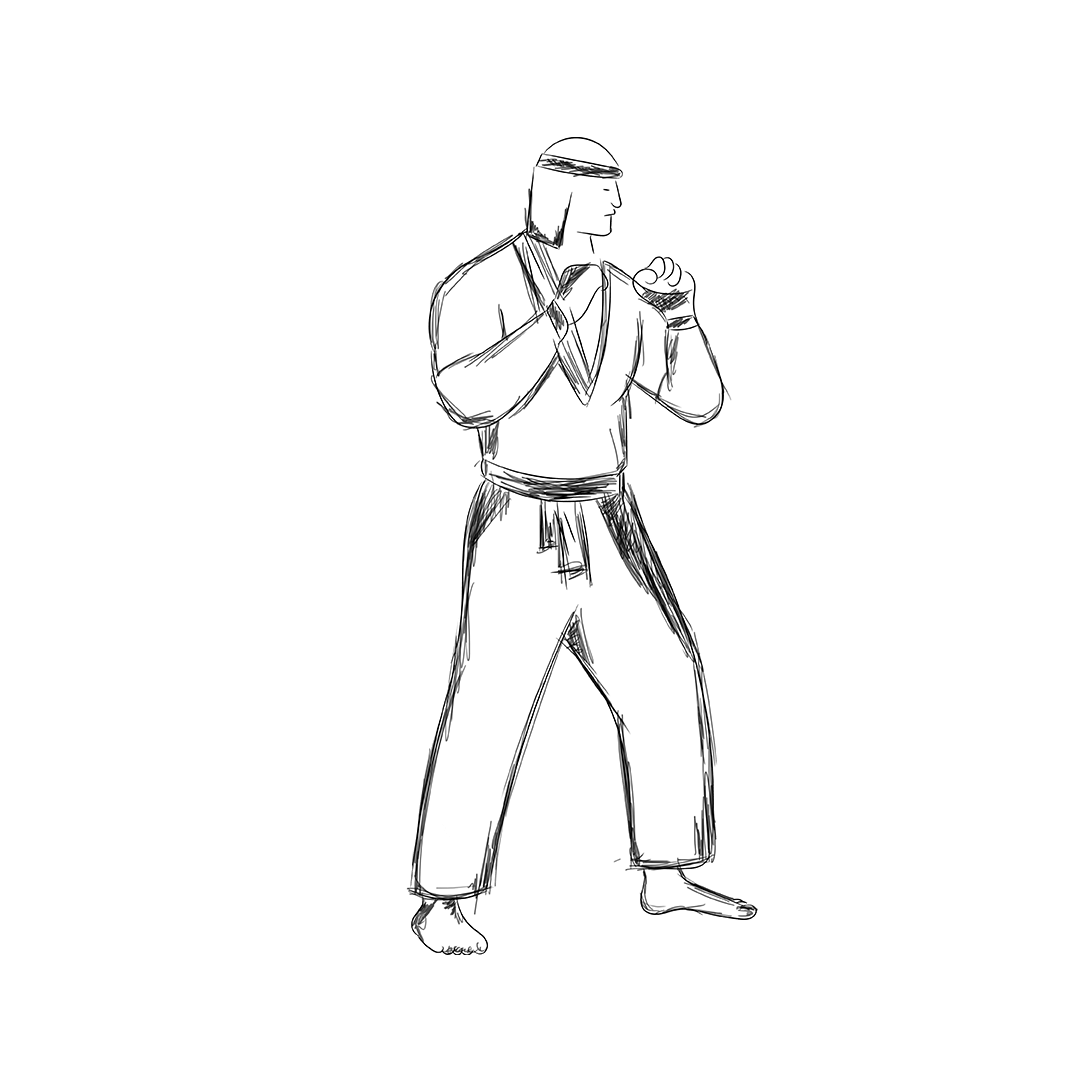
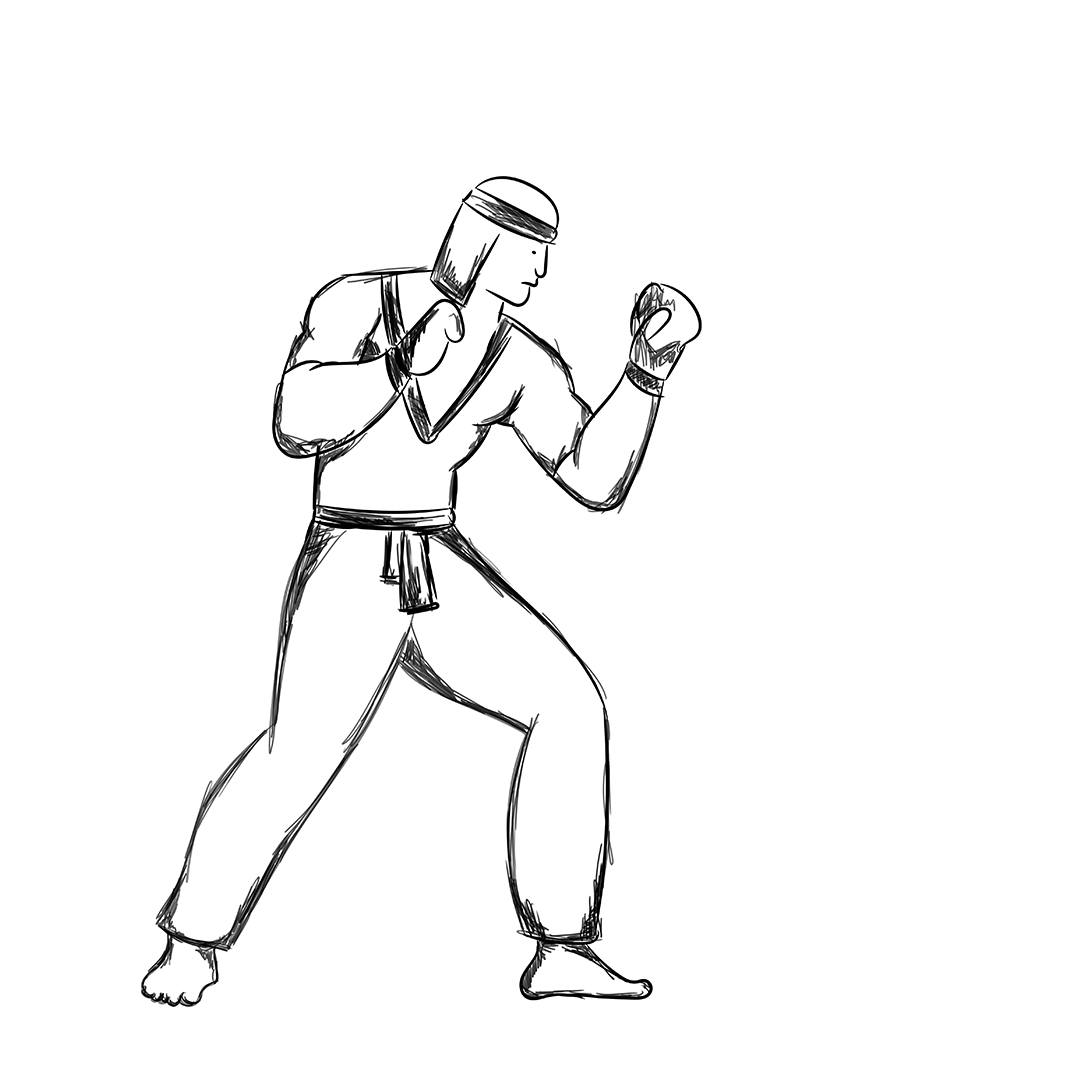
Add files via upload

diff --git a/mart.js b/mart.js
@@ -1,0 +1,93 @@
+var c = document.getElementById("myCanvas");
+var ctx = c.getContext("2d");
+let loadImage= (src,callback)=>{
+    let img=document.createElement("img");
+    img.onload=()=> callback(img);
+    img.src=src;
+};
+
+let imagePath=(frameNumber,animation)=>{
+    return "/images/"+animation+"/"+ frameNumber +".png";
+};
+let frames={
+    idle:[1,2,3,4,5,6,7,8],
+    kick:[1,2,3,4,5,6,7],
+    punch:[1,2,3,4,5,6,7],
+    forward:[1,2,3,4,5,6],
+    backward:[1,2,3,4,5,6],
+    block:[1,2,3,4,5,6,7,8,9],
+};
+let loadImages=(callback)=>{
+    let images={idle:[],kick:[],punch:[],forward:[],backward:[],block:[]};
+    let loadCount=0;
+    ["idle","kick","punch","forward","backward","block"].forEach((animation)=>{
+        let aniframes=frames[animation];
+        loadCount=loadCount+aniframes.length;
+        aniframes.forEach((frameNumber)=>{
+            let path=imagePath(frameNumber,animation);
+        loadImage(path,(image)=>{
+            images[animation][frameNumber-1]=image;
+            loadCount--;
+            if(loadCount===0)
+            {
+                callback(images);
+            }
+        });
+        });
+    });
+};
+let animate=(ctx,images,animation,callback)=>{
+    images[animation].forEach((image,index)=>{
+        setTimeout(()=>{
+            ctx.clearRect(0,0,500,500);
+            ctx.drawImage(image,0,0,500,500);
+        },index*100);
+    });
+    setTimeout(callback,images[animation].length*100);
+};
+loadImages((images)=>{
+    let selAn=[];
+    let aux=()=>{
+        let sa;
+        if(selAn.length===0)
+        {
+            sa="idle";
+        }
+        else{
+            sa=selAn.shift();
+        }
+        animate(ctx,images,sa,aux);
+    };
+    aux();
+    document.getElementById("kick").onclick=()=>{
+        selAn.push("kick");
+    };
+    document.getElementById("punch").onclick=()=>{
+        selAn.push("punch");
+    };
+    document.getElementById("forward").onclick=()=>{
+        selAn.push("forward");
+    };
+    document.getElementById("block").onclick=()=>{
+        selAn.push("backward");
+    };
+    document.getElementById("kick").onclick=()=>{
+        selAn.push("block");
+    };
+    
+    document.addEventListener("keyup",(event)=>{
+        const key=event.key;
+        if(key==="ArrowLeft"){
+            selAn.push("kick");
+        }else if(key==="ArrowRight"){
+            selAn.push("punch");
+        }
+        else if(key==="ArrowUp"){
+            selAn.push("forward");
+        }else if(key==="ArrowDown"){
+            selAn.push("backward");
+        }else{
+            selAn.push("block");
+        }
+    });
+});

diff --git a/martialarts.html b/martialarts.html
@@ -1,0 +1,34 @@
+<!DOCTYPE html>
+<style>
+    canvas {
+  background-color: #ccc;
+  display: block;
+  position: center;
+  top: 0;
+  left: 0;
+  right: 0;
+  bottom: 0;
+  width: 100%;
+  height: 100%;
+}
+div{   
+display: flex;
+justify-content: center;  
+align-items: center;  
+}
+</style>
+<html>
+    <head></head>
+    <body>
+        <div>
+            <button id="forward" >Forward(Up)</button><br>
+        <button id="punch">RIGHT</button>
+        <button id="kick">LEFT</button><br>
+        <button id="backward">Backward(Down)</button>
+        <button id="block">Block(Space)</button>
+        </div>
+        <canvas id="myCanvas" width="1600px"height="500px" style="background-image: url('/images/background.jpg');background-size: cover; "></canvas>
+        
+        <script type="text/javascript" src="/portfolio/mart.js"></script>
+    </body>
+</html>

diff --git a/index.html b/index.html
@@ -1,0 +1,29 @@
+<!DOCTYPE html>
+<style>
+    div#intro{
+        background-color: rgb(163, 143, 116);
+        text-align: center;
+    }
+</style>
+<html>
+    <head><title>My Portfolio</title>
+    <meta charset="UTF-8">
+    <meta name="viewport" content="width=device-width, initial-scale=1.0">
+    <link rel="stylesheet" href="https://www.w3schools.com/w3css/4/w3.css">
+</head>
+    <body>
+        <div id="intro">
+            <h2>Hello there,</h2>
+        <h1>This is <strong>Bhagya Anandapu</strong></h1>
+        <h3>Welcome to my page \(^o^)/</h3>
+        </div>
+        <div>
+            <h3>
+                Know more about me!
+
+            </h3>
+            <a href="/portfolio/project.html"> Click here to checkout my project</a>
+        </div>
+        
+    </body>
+</html>

diff --git a/project.html b/project.html
@@ -1,0 +1,19 @@
+<!DOCTYPE html>
+<html>
+    <head>
+        <title>Projects</title>
+        <meta charset="UTF-8">
+    <meta name="viewport" content="width=device-width, initial-scale=1.0">
+    <link rel="stylesheet" href="https://www.w3schools.com/w3css/4/w3.css">
+    </head>
+    <body>
+        <div class="w3-row">
+            <div class="w3-half">
+                <h3>
+                    My martial artist prototype
+                </h3>
+                <a href="/martialarts.html"><img height="300px" width="300px" src="/images/idle/1.png"></a>
+            </div>
+        </div>
+    </body>
+</html>

diff --git a/README.md b/README.md
@@ -1,1 +1,1 @@
-# project
+# portfolio
